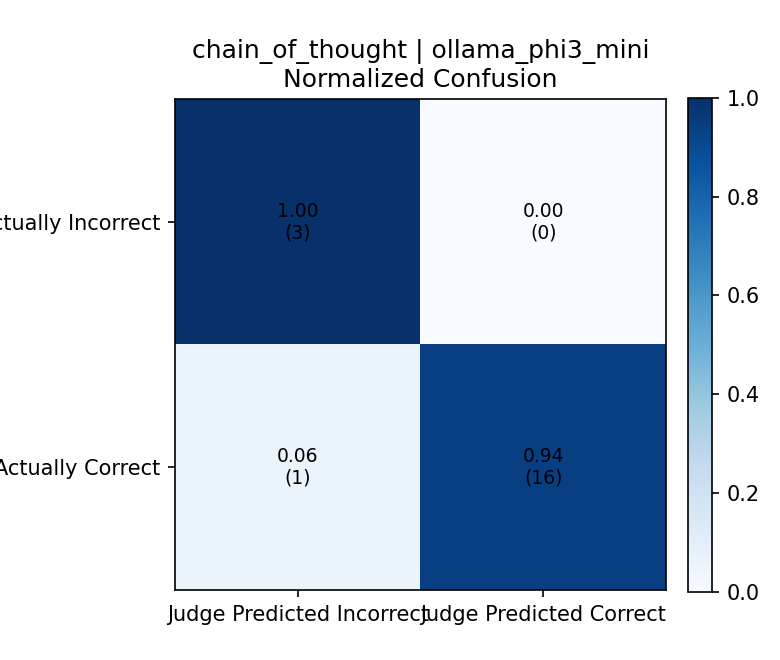
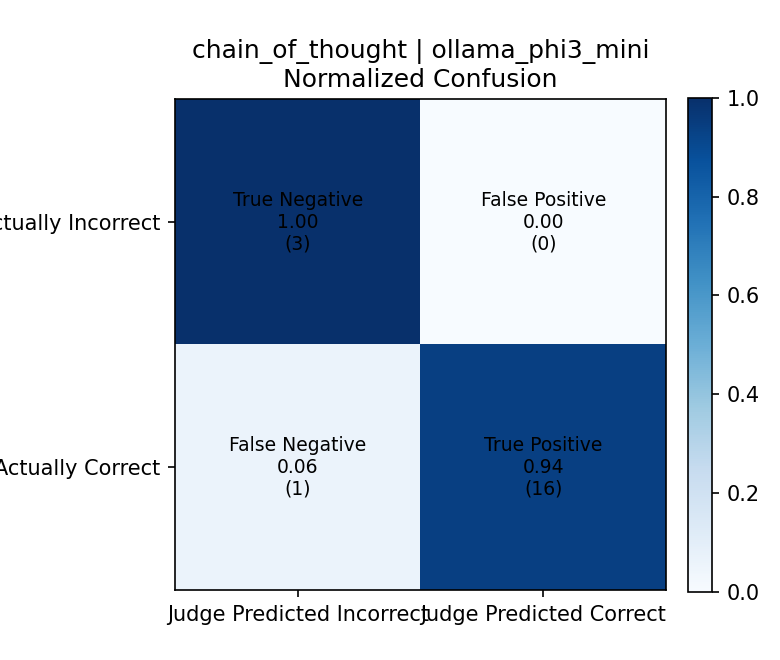
Label confusion matrix cells
Prefix each cell annotation in confusion matrix heatmaps with a descriptive label (True Negative, False Positive, False Negative, True Positive) for improved readability. Added a cell_names array and updated the text formatting in src/visualization.py; regenerated the related plot PNGs under results/runs to reflect the change.

diff --git a/src/visualization.py b/src/visualization.py
@@ -69,6 +69,7 @@ def generate_visual_reports(
         matrix = np.array([[tn, fp], [fn, tp]], dtype=float)
         row_sums = matrix.sum(axis=1, keepdims=True)
         normalized = np.divide(matrix, row_sums, out=np.zeros_like(matrix), where=row_sums != 0)
+        cell_names = [["True Negative", "False Positive"], ["False Negative", "True Positive"]]
 
         fig, ax = plt.subplots(figsize=(5.2, 4.4))
         heatmap = ax.imshow(normalized, cmap="Blues", vmin=0.0, vmax=1.0)
@@ -81,7 +82,7 @@ def generate_visual_reports(
                 ax.text(
                     j,
                     i,
-                    f"{normalized[i, j]:.2f}\n({int(matrix[i, j])})",
+                    f"{cell_names[i][j]}\n{normalized[i, j]:.2f}\n({int(matrix[i, j])})",
                     ha="center",
                     va="center",
                     color="black",
